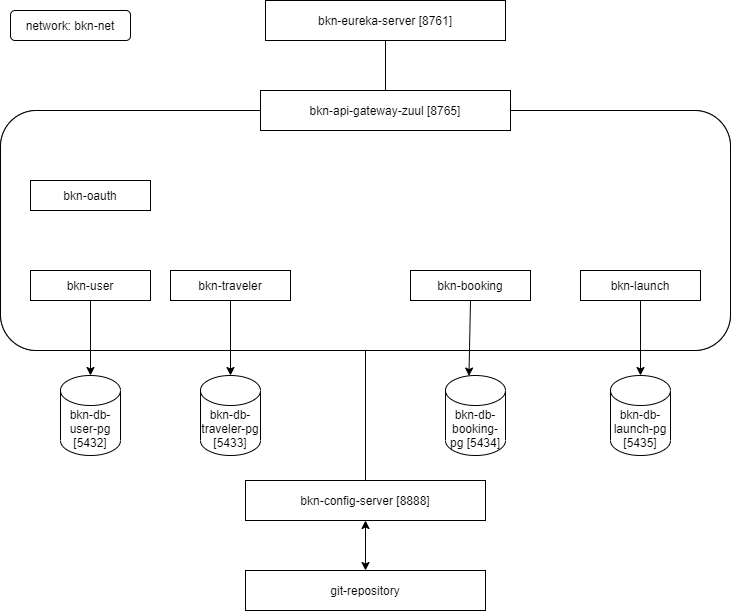
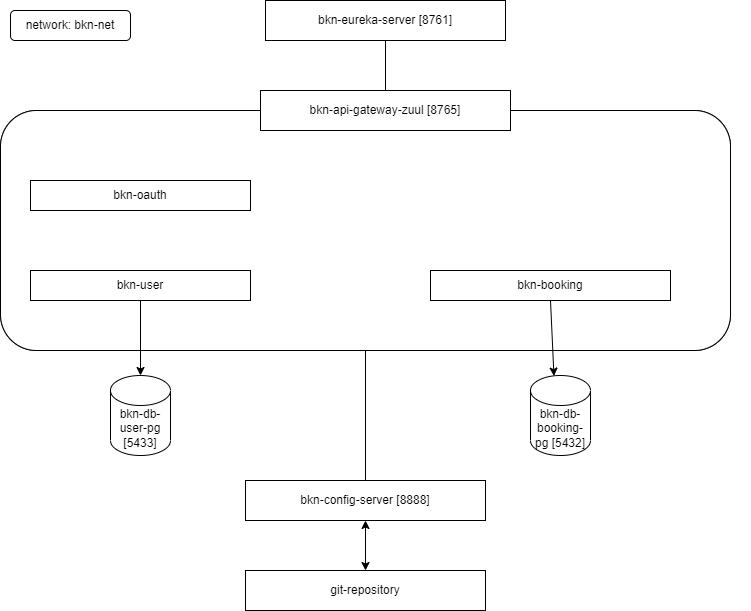
update architecture design

diff --git a/README.md b/README.md
@@ -10,7 +10,7 @@ This diagram contains whole architecture docker containers used to Booking Proje
 * 2 - bkn-eureka-server
 * 3 - bkn-api-gateway-zuul
 * 4 - bkn-oauth
-* others
+* 5 - bkn-booking
 
 ## Docker commands
 
